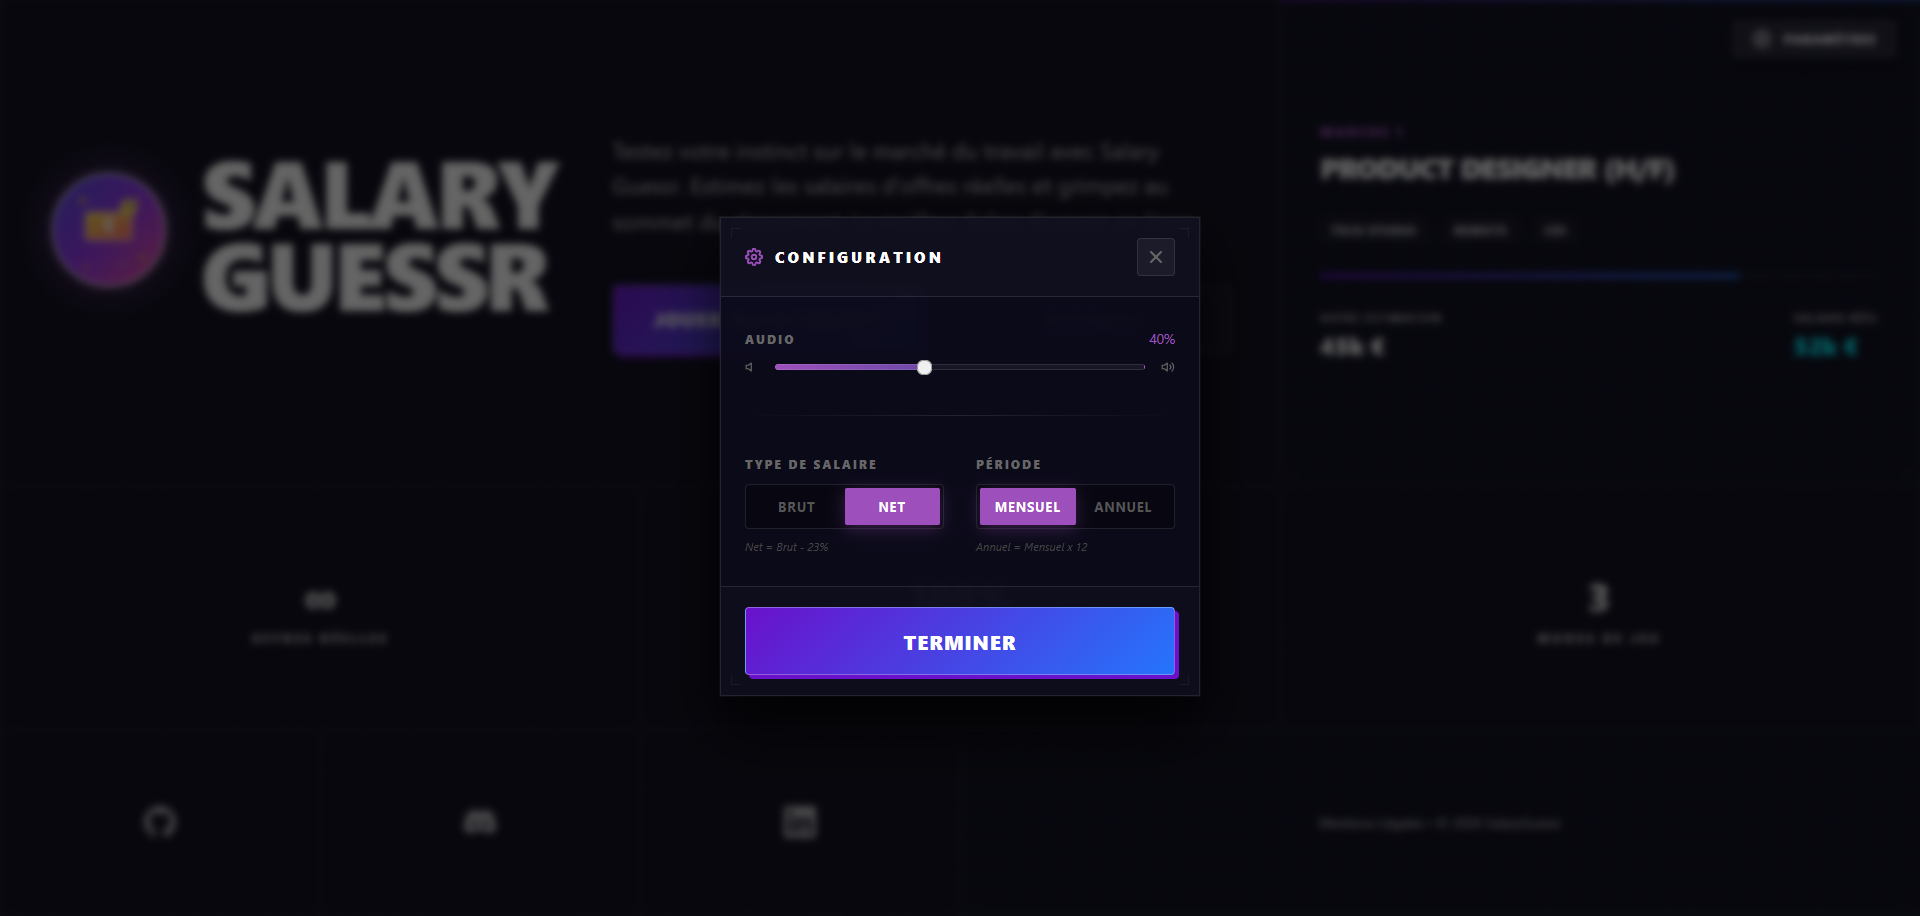
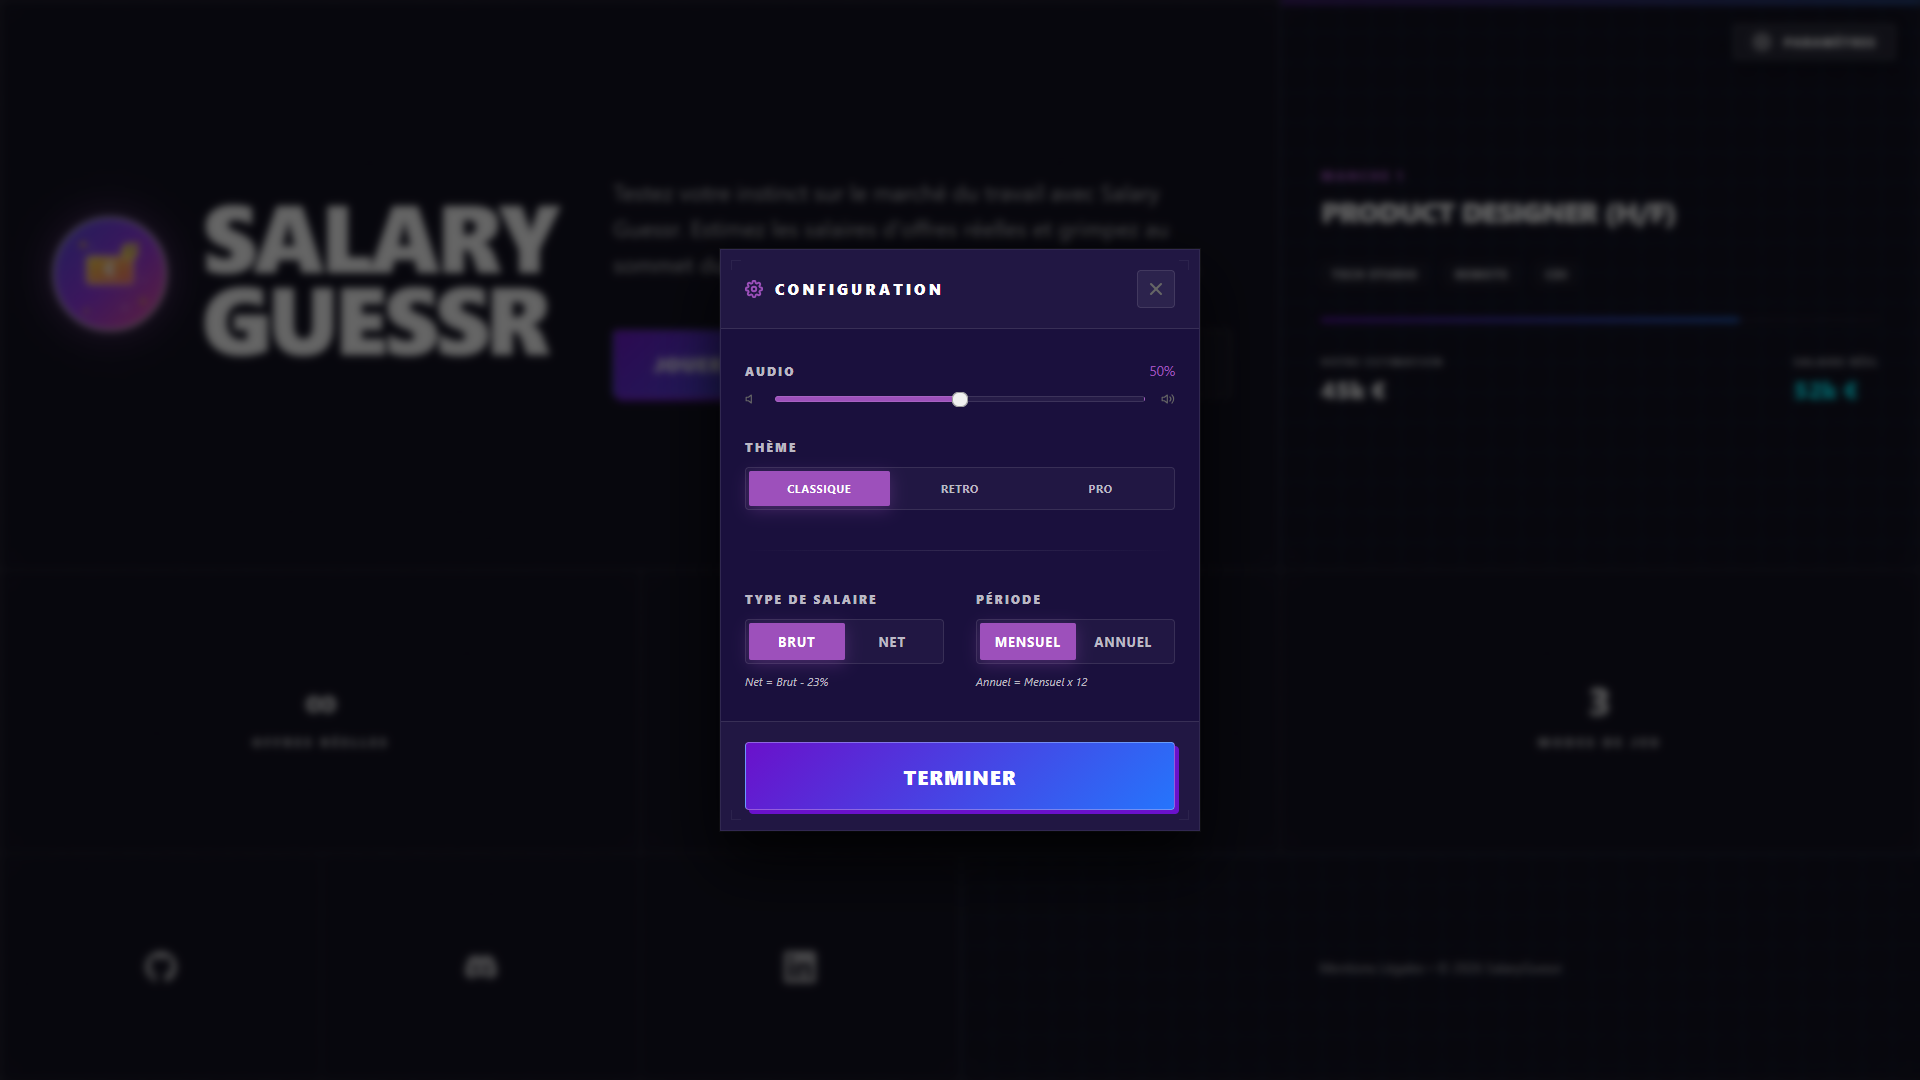
Documented v0.3.0-beta features

diff --git a/CHANGELOG.md b/CHANGELOG.md
@@ -5,6 +5,18 @@ All notable changes to this project will be documented in this file.
 The format is based on [Keep a Changelog](https://keepachangelog.com/en/1.0.0/),
 and this project adheres to [Semantic Versioning](https://semver.org/spec/v2.0.0.html).
 
+## [0.3.0-beta] - 2026-05-16
+
+### Added
+- **Theme System**: Three visual themes — Classic (default purple dark), Retro (neon synthwave), Professional (light LinkedIn-inspired).
+- **Theme Switcher**: Settings popup now offers a 3-way toggle between Classic / Retro / Pro themes.
+- **Onboarding Tutorial**: First-time visitors see a 4-step guided tour covering website intro, game modes explanation, live theme/settings customization, and where to find settings.
+- **Classic Theme**: New base theme that restores the original clean dark look without retro neon overrides.
+
+### Changed
+- **Default Theme**: Changed from `retro` to `classic` for new users.
+- **Settings Volume Slider**: Now uses CSS variables (`--primary-purple`) instead of hardcoded retro colors, adapting to the active theme.
+
 ## [0.2.1-beta] - 2026-05-16
 
 ### Fixed
